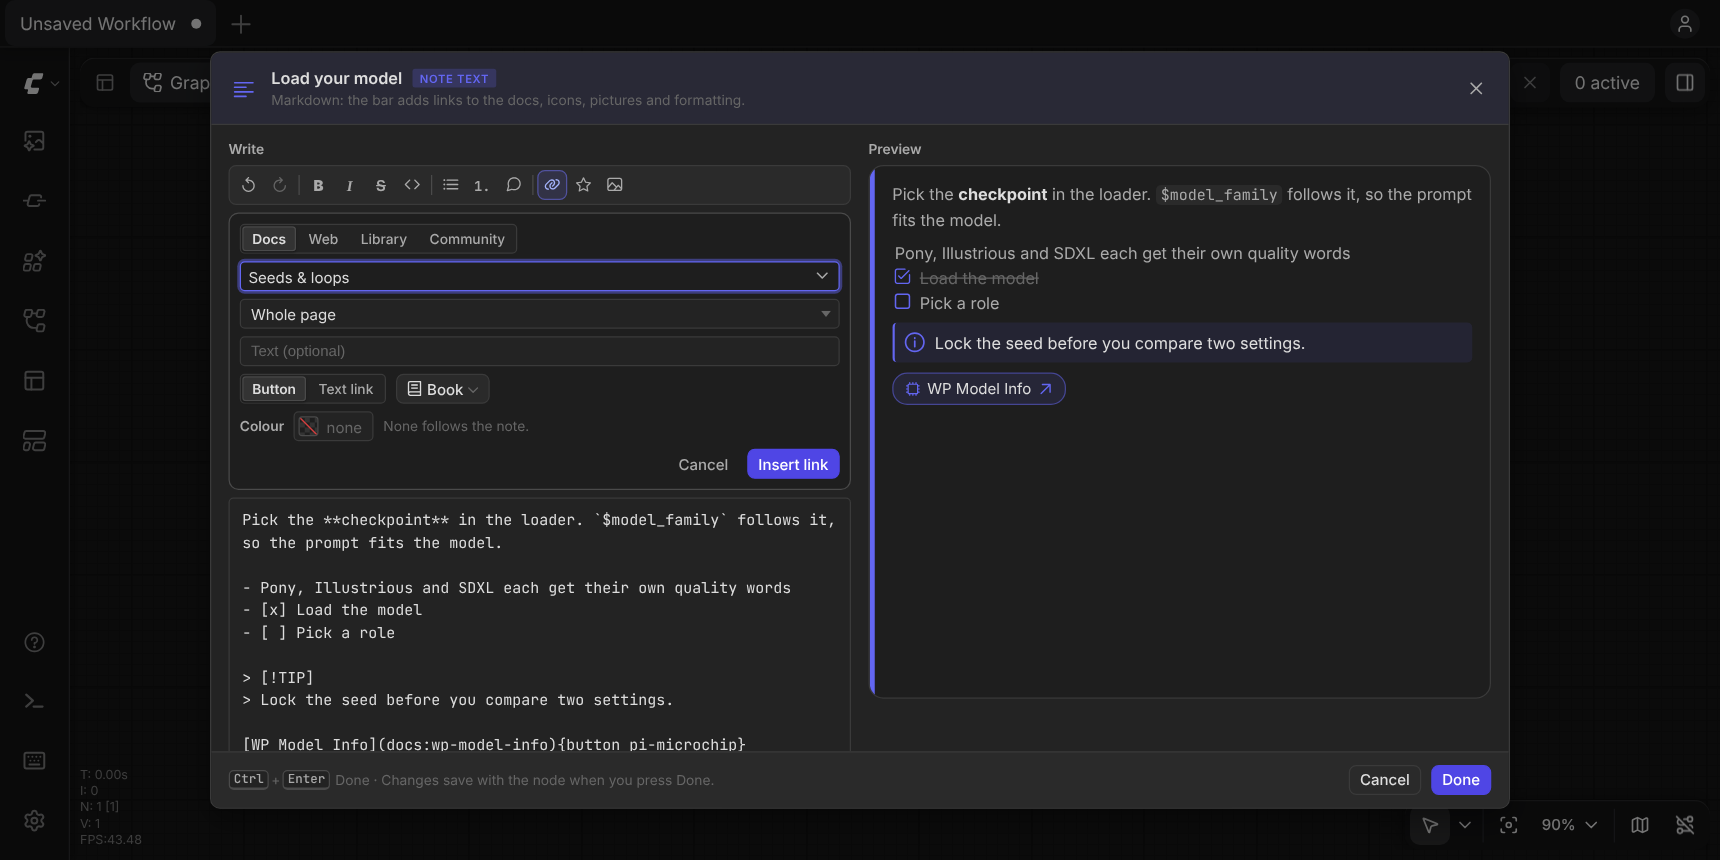
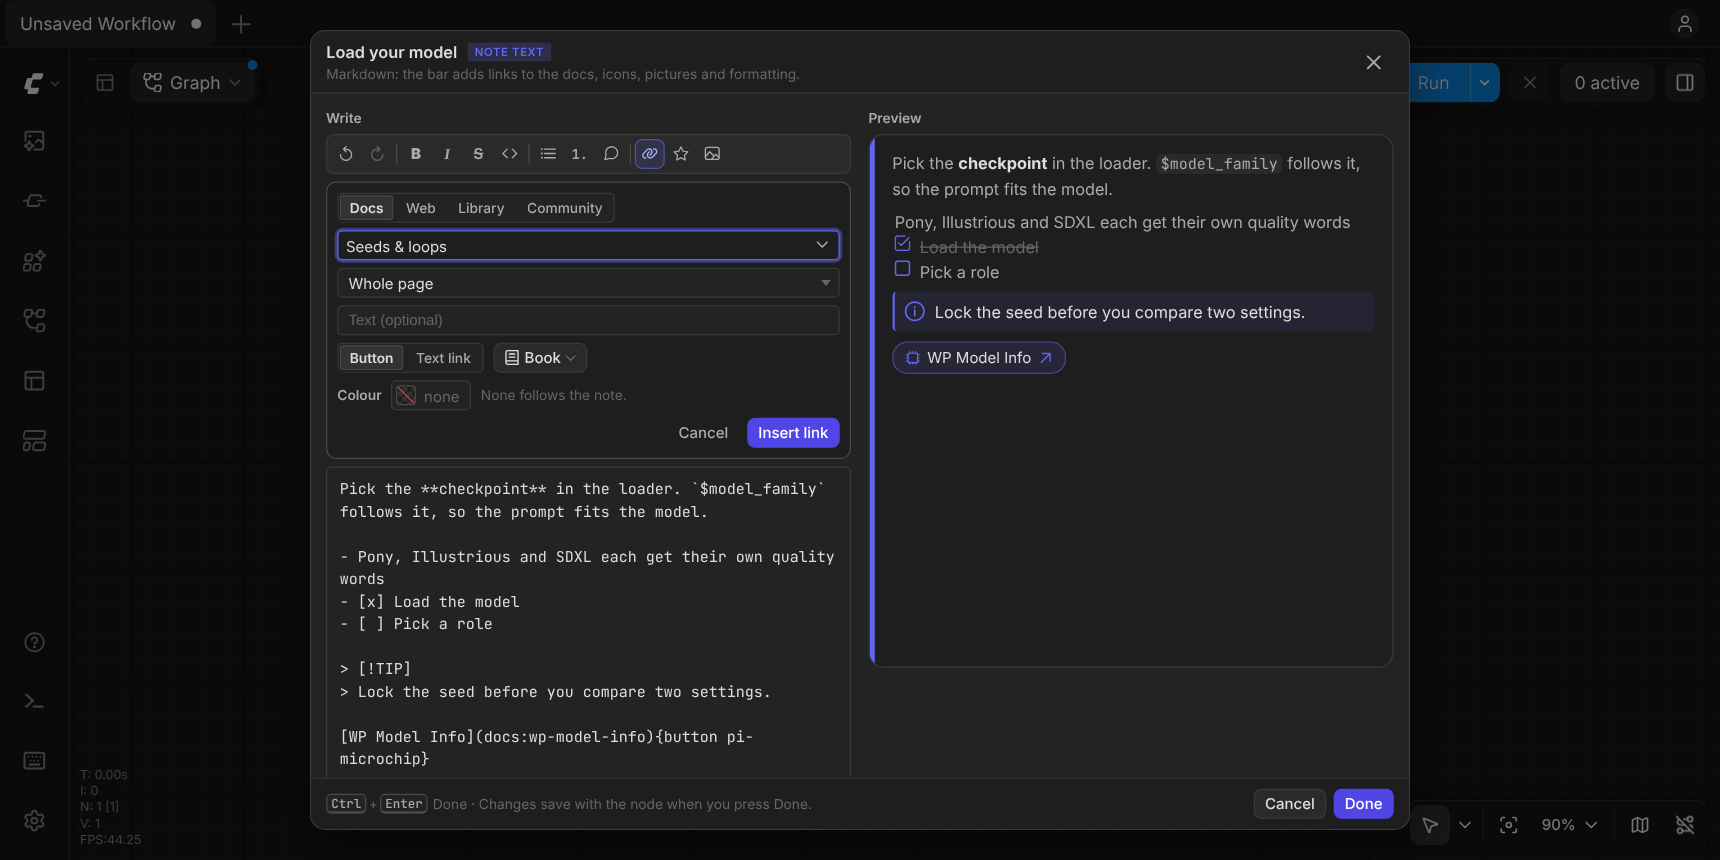
refactor(note): open the note's text in the kit Modal instead of a one-off window shell
NodeEditWindow duplicated the kit's Modal (header, body, footer, × with Esc)
and lacked its focus handling. The note text window now uses Modal at size lg
with a ConfirmModal before discarding changes; NodeEditWindow and its kit
page entry are gone.

Changed region(s): [[0.1233, 0.0302, 0.493, 0.9674], [0.493, 0.0605, 0.8936, 0.9674], [0.3698, 0.1512, 0.4006, 0.2116]]

diff --git a/src/components/note/NoteTextModal.vue b/src/components/note/NoteTextModal.vue
@@ -2,10 +2,14 @@
 /**
  * WP Note's text in its own window: the Markdown editor on the left, the
  * note as it will read on the right, updated as you type. It edits a draft
- * (text + pictures); Done writes it to the node, Cancel drops it.
+ * (text + pictures); Done writes it to the node, Cancel drops it. The
+ * frame is the kit's Modal.
  */
 import { computed, ref } from "vue";
-import NodeEditWindow from "../shared/NodeEditWindow.vue";
+import Button from "@/kit/Button.vue";
+import ConfirmModal from "@/kit/ConfirmModal.vue";
+import Kbd from "@/kit/Kbd.vue";
+import Modal from "@/kit/Modal.vue";
 import NoteMarkdown from "./note-markdown";
 import NoteTextEditor from "./NoteTextEditor.vue";
 import type { NoteImage, NoteLook } from "../../extension/note";
@@ -34,19 +38,37 @@ const isLabel = computed(() => props.look === "label");
 function done(): void {
   emit("done", { text: text.value, images: images.value });
 }
+/** Closing with changes (Escape, the backdrop, ×, Cancel) asks first, so a
+ *  stray Escape never throws away writing. */
+const asking = ref(false);
+function cancel(): void {
+  if (dirty.value) asking.value = true;
+  else emit("close");
+}
+function onOpen(v: boolean): void {
+  if (!v) cancel();
+}
+function onKey(ev: KeyboardEvent): void {
+  if (asking.value) return;
+  // Ctrl/Cmd+Enter is Done from anywhere in the window.
+  if (ev.key === "Enter" && (ev.ctrlKey || ev.metaKey)) {
+    ev.preventDefault();
+    done();
+  }
+}
 </script>
 
 <template>
-  <NodeEditWindow
-    :title="shownTitle"
-    chip="Note text"
-    icon="align-left"
-    :sub="isLabel ? 'A label shows this text when you hover it.' : 'Markdown: the bar adds links to the docs, icons, pictures and formatting.'"
-    :dirty="dirty"
-    :width="1040"
-    @done="done"
-    @cancel="emit('close')"
-  >
+  <Modal :open="true" size="lg" @update:open="onOpen" @keydown="onKey">
+    <template #header="{ titleId }">
+      <div class="wp-note-tx__head">
+        <div class="wp-note-tx__title-row">
+          <span :id="titleId" class="wp-note-tx__name">{{ shownTitle }}</span>
+          <span class="wp-note-tx__chip">Note text</span>
+        </div>
+        <div class="wp-note-tx__sub">{{ isLabel ? "A label shows this text when you hover it." : "Markdown: the bar adds links to the docs, icons, pictures and formatting." }}</div>
+      </div>
+    </template>
     <div class="wp-note-tx" data-test="note-text-window">
       <section class="wp-note-tx__pane" aria-label="Write">
         <span class="wp-note-tx__label">Write</span>
@@ -69,10 +91,41 @@ function done(): void {
         </div>
       </section>
     </div>
-  </NodeEditWindow>
+    <template #footer>
+      <span class="wp-note-tx__hint"><Kbd keys="Mod+Enter" size="sm" /> Done · Changes save with the node when you press Done.</span>
+      <Button size="sm" data-test="note-text-cancel" @click="cancel">Cancel</Button>
+      <Button size="sm" variant="primary" data-test="note-text-done" @click="done">Done</Button>
+    </template>
+  </Modal>
+  <ConfirmModal
+    :open="asking"
+    title="Discard your changes?"
+    body="What you changed in this window isn't on the node yet."
+    confirm-label="Discard"
+    cancel-label="Keep editing"
+    tone="warn"
+    @confirm="asking = false; emit('close')"
+    @cancel="asking = false"
+  />
 </template>
 
 <style scoped>
+.wp-note-tx__head { flex: 1; min-width: 0; }
+.wp-note-tx__title-row { display: flex; align-items: center; gap: 8px; min-width: 0; }
+.wp-note-tx__name { font-weight: 600; font-size: 13px; overflow: hidden; text-overflow: ellipsis; white-space: nowrap; }
+.wp-note-tx__chip {
+  flex: none;
+  font-weight: 600;
+  font-size: 9px;
+  text-transform: uppercase;
+  letter-spacing: 0.06em;
+  padding: 2px 6px;
+  border-radius: min(2px, var(--wp-radius-cap, 999px));
+  background: color-mix(in srgb, var(--wp-accent) 22%, transparent);
+  color: var(--wp-accent);
+}
+.wp-note-tx__sub { font-size: 11px; color: var(--wp-text-dim); margin-top: 3px; }
+.wp-note-tx__hint { display: inline-flex; align-items: center; gap: 4px; margin-right: auto; font-size: 11px; color: var(--wp-text-dim); }
 .wp-note-tx {
   display: grid;
   grid-template-columns: minmax(0, 1fr) minmax(0, 1fr);

diff --git a/src/components/note/NoteTextModal.test.ts b/src/components/note/NoteTextModal.test.ts
@@ -33,7 +33,7 @@ describe("NoteTextModal", () => {
   it("shows the editor and the preview side by side, the preview following the text", async () => {
     const w = make("**Hi**");
     await flushPromises();
-    expect($('[data-test="node-edit-window"]')?.textContent).toContain("Read me");
+    expect($('[data-test="modal"]')?.textContent).toContain("Read me");
     expect($('[data-test="note-preview-toggle"]')).toBeNull();
     expect($('[data-test="note-text-preview"]')?.innerHTML).toMatch(/>Hi</);
     expect($('[data-test="note-text-preview"]')?.textContent).not.toContain("**");
@@ -46,7 +46,7 @@ describe("NoteTextModal", () => {
     const w = make("old");
     await flushPromises();
     await type("new text");
-    await click('[data-test="node-edit-done"]');
+    await click('[data-test="note-text-done"]');
     expect(w.emitted("done")?.[0]?.[0]).toEqual({ text: "new text", images: {} });
     w.unmount();
   });
@@ -54,7 +54,7 @@ describe("NoteTextModal", () => {
   it("closes at once when nothing changed", async () => {
     const w = make();
     await flushPromises();
-    await click('[data-test="node-edit-cancel"]');
+    await click('[data-test="note-text-cancel"]');
     expect(w.emitted("close")).toHaveLength(1);
     w.unmount();
   });
@@ -63,7 +63,7 @@ describe("NoteTextModal", () => {
     const w = make("old");
     await flushPromises();
     await type("changed");
-    await click('[data-test="node-edit-cancel"]');
+    await click('[data-test="note-text-cancel"]');
     expect(w.emitted("close")).toBeUndefined();
     expect(document.body.textContent).toContain("Discard your changes?");
     const keep = [...document.body.querySelectorAll("button")].find((b) => b.textContent?.includes("Keep editing"));
@@ -71,11 +71,22 @@ describe("NoteTextModal", () => {
     await flushPromises();
     expect(w.emitted("close")).toBeUndefined();
     expect($<HTMLTextAreaElement>('[data-test="note-text"]')?.value).toBe("changed");
-    await click('[data-test="node-edit-cancel"]');
+    await click('[data-test="note-text-cancel"]');
     const discard = [...document.body.querySelectorAll("button")].find((b) => b.textContent?.trim() === "Discard");
     discard?.click();
     await flushPromises();
     expect(w.emitted("close")).toHaveLength(1);
+    w.unmount();
+  });
+
+  it("Escape on a changed draft asks too", async () => {
+    const w = make("old");
+    await flushPromises();
+    await type("changed");
+    $('[data-test="note-text"]')?.dispatchEvent(new KeyboardEvent("keydown", { key: "Escape", bubbles: true }));
+    await flushPromises();
+    expect(w.emitted("close")).toBeUndefined();
+    expect(document.body.textContent).toContain("Discard your changes?");
     w.unmount();
   });
 
@@ -86,16 +97,6 @@ describe("NoteTextModal", () => {
     $('[data-test="note-text"]')?.dispatchEvent(new KeyboardEvent("keydown", { key: "Enter", ctrlKey: true, bubbles: true }));
     await flushPromises();
     expect(w.emitted("done")?.[0]?.[0]).toEqual({ text: "via keys", images: {} });
-    w.unmount();
-  });
-});
-
-describe("NodeEditWindow flush", () => {
-  it("drops the body's padding and scroll when flush", async () => {
-    const { default: NodeEditWindow } = await import("../shared/NodeEditWindow.vue");
-    const w = mount(NodeEditWindow, { props: { title: "T", chip: "C", flush: true }, attachTo: document.body });
-    await flushPromises();
-    expect($(".wp-node-edit__body")?.classList.contains("wp-node-edit__body--flush")).toBe(true);
     w.unmount();
   });
 });

diff --git a/src/manager/kit/registry.ts b/src/manager/kit/registry.ts
@@ -48,10 +48,6 @@ export const KIT_ENTRIES: KitEntry[] = [
   },
   // App pieces
   {
-    id: "node-edit-window", name: "NodeEditWindow", group: "pieces", file: "src/components/shared/NodeEditWindow.vue", surfaces: ["canvas"],
-    use: "The window a canvas node opens for an edit too big for the node (WP Note's text): header with the node's title and a chip, the body, Cancel / Done, and a Discard? check when closing with changes. Keep a draft and write it on done.",
-  },
-  {
     id: "rich-text", name: "RichTextInput", group: "pieces", file: "src/manager/components/RichTextInput.vue", surfaces: ["manager"],
     use: "Prompt text: colours $variables, @{references}, {a|b} picks, LoRAs and #tags, and completes them as you type. Every template, combine and option text box uses it.",
     instead: "A Textarea for text that holds prompt syntax.",
@@ -98,7 +94,6 @@ export const KIT_FOLDERS = ["src/components/shared"];
  */
 export const KIT_EXAMPLES: Record<string, string> = {
   "canvas-toast": `pushToast("Copied to the library", { severity: "success" })`,
-  "node-edit-window": `<NodeEditWindow :title="node.title" chip="Note text" :dirty="changed" @done="save" @cancel="open = false">…</NodeEditWindow>`,
   "ai-working": `<AiWorking text="Planning the pack" variant="orbit" />`,
   "rich-text": `<RichTextInput v-model="template" surface="assembler" multiline :var-suggestions="vars" />`,
   "negative-field": `<NegativeField v-model="option.negative" label="option" />`,

diff --git a/src/components/note/NoteWidget.test.ts b/src/components/note/NoteWidget.test.ts
@@ -52,7 +52,7 @@ describe("NoteWidget edit form", () => {
     area.value = "No pictures now.";
     area.dispatchEvent(new Event("input", { bubbles: true }));
     await flushPromises();
-    document.body.querySelector<HTMLElement>('[data-test="node-edit-done"]')?.click();
+    document.body.querySelector<HTMLElement>('[data-test="note-text-done"]')?.click();
     await flushPromises();
     expect(lastConfig(w)?.text).toBe("No pictures now.");
     expect(lastConfig(w)?.images).toEqual({});

diff --git a/tutorials/tests/n14-wp-note.ts b/tutorials/tests/n14-wp-note.ts
@@ -20,7 +20,7 @@ tutorial(
       await t.beat(400);
     };
     const textDone = async () => {
-      await t.click(t.page.locator('[data-test="node-edit-done"]'));
+      await t.click(t.page.locator('[data-test="note-text-done"]'));
       await t.beat(500);
     };
     const title = (id: string) => t.node(id).locator('input[data-test="note-title"], [data-test="note-title"] input').first();
